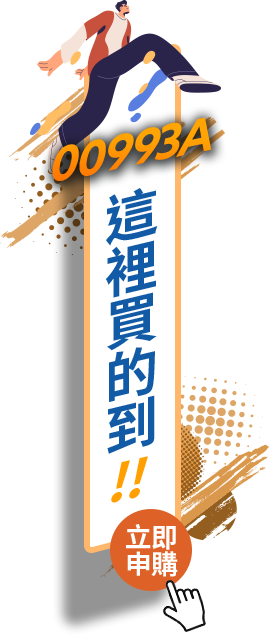
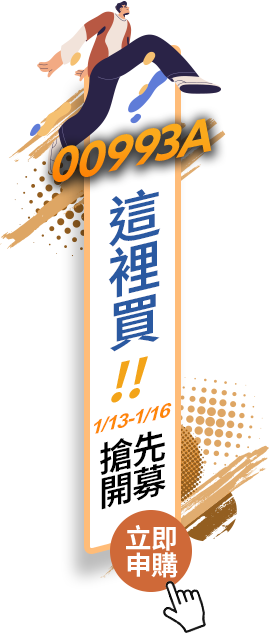
Add files via upload

diff --git a/Allianz-full/index.html b/Allianz-full/index.html
@@ -1,6 +1,14 @@
 <!DOCTYPE html>
 <html lang="zh-Hant-TW">
     <head>
+        <!-- Google Tag Manager -->
+        <script>(function(w,d,s,l,i){w[l]=w[l]||[];w[l].push({'gtm.start':
+        new Date().getTime(),event:'gtm.js'});var f=d.getElementsByTagName(s)[0],
+        j=d.createElement(s),dl=l!='dataLayer'?'&l='+l:'';j.async=true;j.src=
+        'https://www.googletagmanager.com/gtm.js?id='+i+dl;f.parentNode.insertBefore(j,f);
+        })(window,document,'script','dataLayer','GTM-PZ27SPGJ');</script>
+        <!-- End Google Tag Manager -->
+
         <meta charset="UTF-8" />
         <meta
             name="viewport"
@@ -73,6 +81,11 @@
         <link rel="stylesheet" href="css/index.css" />
     </head>
     <body>
+        <!-- Google Tag Manager (noscript) -->
+        <noscript><iframe src="https://www.googletagmanager.com/ns.html?id=GTM-PZ27SPGJ"
+        height="0" width="0" style="display:none;visibility:hidden"></iframe></noscript>
+        <!-- End Google Tag Manager (noscript) -->
+
         <div class="lightBox show warning">
             <div class="lightBox-bg"></div>
             <div class="lightBox-container">
@@ -851,9 +864,21 @@
 
                 <section class="section-6" id="F1">
                     <div class="base-wrapper">
-                        <div class="buy-item"  data-aos="fade-up">
-                            <div title="立即申購" href="/"><img src="images/04_section01_titleBg.png" alt=""></div>
+                        <div class="base-h3-title" data-aos="fade-up">
+                            <img
+                                class="pic-title"
+                                src="images/02_section06_titleBg.png"
+                                alt="立即申購"
+                                loading="lazy"
+                            />
+                            <h3 class="text">
+                                立即<span class="strong">申購</span>
+                                <em>00993A在這裡買的到唷</em>
+                            </h3>
                         </div>
+                        <!-- <div class="buy-item"  data-aos="fade-up">
+                            <div title="立即申購" href="/"><img src="images/04_section01_titleBg.png" alt=""></div>
+                        </div> -->
                         <div class="item-info">
                             <div class="info-date">募集期間 1/13-1/16</div><hr>
                             <p><div class="info-title">銷售機構</div></p>
@@ -878,8 +903,7 @@
                             
                         </div>
                         <div class="item-focus">
-                            <!-- <p>2/3 ETF掛牌上市後，ETF買賣方式與一般股票相同</p> -->
-                            <p>ETF買賣方式與一般股票相同</p>
+                            <p>2/3 ETF掛牌上市後，ETF買賣方式與一般股票相同</p>
                             <p>想要買ETF，您可以透過以下二個方式喔！</p>
                         </div>
                         <div class="e-content">
@@ -892,7 +916,7 @@
             </main>
 
             <aside class="sidebar">
-                <a class="sidebar-item" title="立即開戶" href="#F1"><img src="images/buy.png" alt=""></a>
+                <a class="sidebar-item" title="立即申購" href="#F1"><img src="images/buy.png" alt=""></a>
                 <!-- <a class="sidebar-item" title="如何申購" href="https://www.yuanta.com.tw/file-repository/content/IPO/index.html?utm_source=officialweb_campaign&utm_medium=buttonl&utm_campaign=etf_0050">如何申購</a> -->
                 <!-- <a class="sidebar-item" title="立即申購" href="/">立即申購</a> -->
             </aside>

diff --git a/Allianz-full/css/index.css b/Allianz-full/css/index.css
@@ -283,6 +283,10 @@ img {
   }
 }
 
+:root {
+  --swiper-navigation-size: 80px;
+}
+
 .swiper {
   overflow-x: hidden;
 }
@@ -295,28 +299,56 @@ img {
 
 .swiper-button-next,
 .swiper-button-prev {
+  background: url(../images/arrrow.png) center center/contain no-repeat;
+  width: calc(var(--swiper-navigation-size) / 44 * 27);
+  height: var(--swiper-navigation-size);
   -webkit-transition: opacity 0.4s;
   transition: opacity 0.4s;
 }
 .swiper-button-next:hover,
 .swiper-button-prev:hover {
+  -webkit-transition: right 0.3s ease;
+  transition: right 0.3s ease;
   opacity: 0.8;
+  right: -65px;
+}
+.swiper-button-next::after,
+.swiper-button-prev::after {
+  content: "";
 }
 
 .swiper-button-prev {
-  left: -48px;
+  left: -58px;
+  -webkit-transform: scaleX(-1);
+          transform: scaleX(-1);
 }
 @media screen and (max-width: 1023px) {
   .swiper-button-prev {
     left: -24px;
   }
+  .swiper-button-prev:hover {
+    left: -24px;
+  }
+}
+.swiper-button-prev:hover {
+  left: -65px;
+  -webkit-transition: left 0.3s ease;
+  transition: left 0.3s ease;
+}
+@media screen and (max-width: 640px) {
+  .swiper-button-prev:hover {
+    left: -24px;
+  }
 }
 
 .swiper-button-next {
-  right: -48px;
+  right: -58px;
 }
 @media screen and (max-width: 1023px) {
   .swiper-button-next {
+    right: -24px;
+  }
+  .swiper-button-next:hover {
     right: -24px;
   }
 }
@@ -939,6 +971,25 @@ a + .section-banner .icon-bar .icon-item:a:hover {
   margin: 0 auto;
   max-width: 100%;
 }
+.section-6 .base-h3-title {
+  width: 832px;
+  aspect-ratio: 832/167;
+  margin: 0 auto;
+}
+.section-6 .base-h3-title .pic-title {
+  -webkit-transform: translateX(-20px);
+          transform: translateX(-20px);
+}
+.section-6 .base-h3-title .text {
+  -webkit-transform: translateY(20px);
+          transform: translateY(20px);
+  text-shadow: 0 0 8px #20abd2, 0 0 8px #20abd2, 0 0 8px #20abd2, 0 0 8px #20abd2;
+}
+.section-6 .base-h3-title .text em {
+  display: block;
+  font-size: 0.5em;
+  margin-top: 0.5em;
+}
 .section-6 .item-info {
   position: relative;
   margin: 2em auto;
@@ -1111,7 +1162,7 @@ a + .section-banner .icon-bar .icon-item:a:hover {
   display: -ms-flexbox;
   display: flex;
   gap: 16px;
-  bottom: 160px;
+  bottom: 80px;
   right: 0px;
   z-index: 1;
 }

diff --git a/Allianz-full/css/index.scss b/Allianz-full/css/index.scss
@@ -271,7 +271,9 @@ img {
         }
     }
 }
-
+:root{
+    --swiper-navigation-size: 80px;
+}
 .swiper {
     overflow-x: hidden;
 }
@@ -282,21 +284,44 @@ img {
 }
 .swiper-button-next,
 .swiper-button-prev {
+    background: url(../images/arrrow.png)center center /contain no-repeat;
+    // background-size: contain;
+    width: calc(var(--swiper-navigation-size) / 44 * 27);
+    height: var(--swiper-navigation-size);
     transition: opacity 0.4s;
     &:hover {
+        transition: right 0.3s ease;
         opacity: 0.8;
+        right: -65px;
+    }
+    &::after{
+        content: "";
     }
 }
 .swiper-button-prev {
-    left: -48px;
+    left: -58px;
+    transform:scaleX(-1);
     @include maxWidth-lg() {
         left: -24px;
+        &:hover{
+           left: -24px; 
+        }
+    }
+    &:hover{
+        left: -65px;
+        transition: left 0.3s ease;
+        @include maxWidth-sm() {
+            left: -24px;
+        }
     }
 }
 .swiper-button-next {
-    right: -48px;
+    right: -58px;
     @include maxWidth-lg() {
         right: -24px;
+        &:hover{
+           right: -24px; 
+        }
     }
 }
 
@@ -905,6 +930,24 @@ img {
             }
         
     }
+    .base-h3-title {
+        width: 832px;
+        aspect-ratio: 832 / 167;
+        margin: 0 auto;
+        .pic-title {
+            transform: translateX(-20px);
+        }
+        .text {
+            transform: translateY(20px);
+            text-shadow: 0 0 8px #20abd2, 0 0 8px #20abd2, 0 0 8px #20abd2,
+                0 0 8px #20abd2;
+                em{
+            display: block;
+            font-size: .5em;
+            margin-top: .5em;
+        }
+        }
+    }
     .item-info{
         position: relative;
         margin: 2em auto;
@@ -1074,7 +1117,7 @@ img {
     // display: none;
     // flex-direction: column;
     gap: 16px;
-    bottom: 160px;
+    bottom: 80px;
     right: 0px;
     z-index: 1;
     .sidebar-item {
